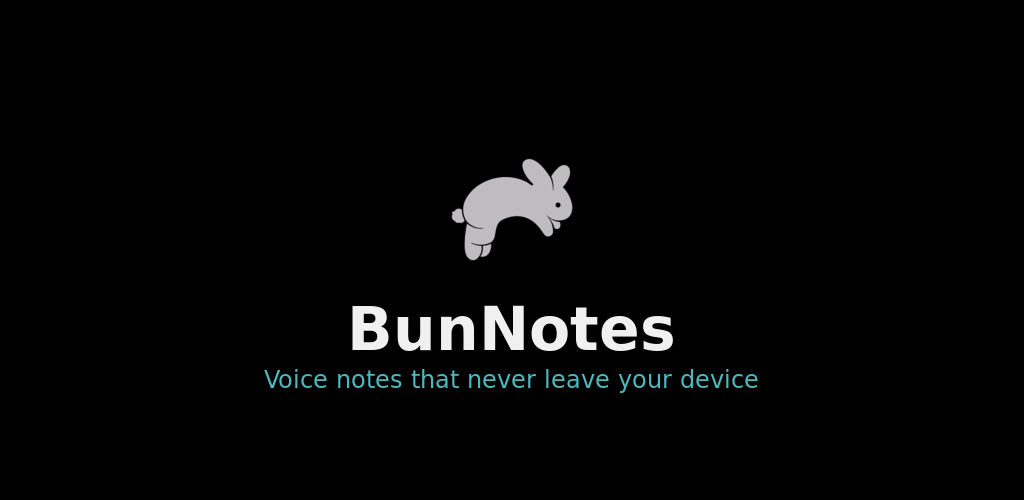
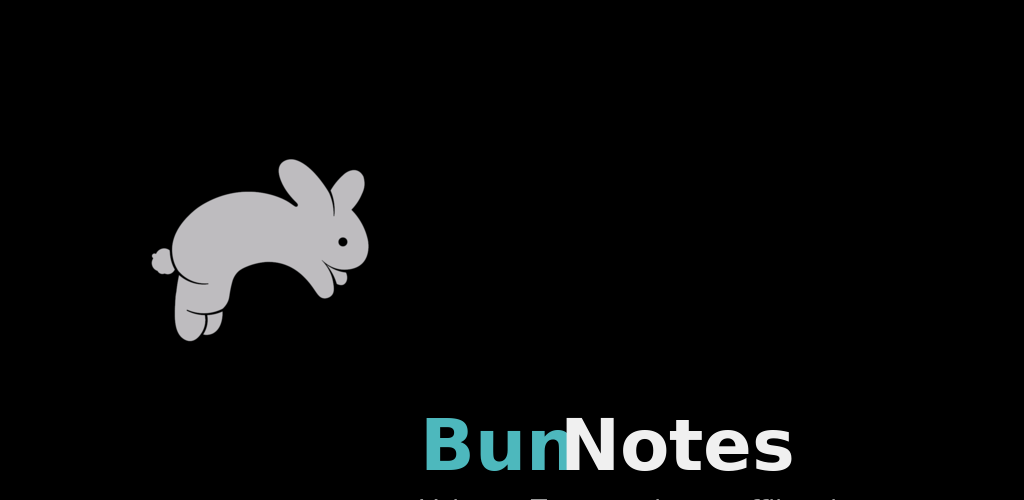
Bump to v1.1.3: fix crash on arm64 devices with missing FP16 cpuinfo
- Fix WhisperContext crash: arm64 devices without /proc/cpuinfo Features
  line now fall back to generic librnwhisper.so instead of skipping load
- Add splash.png to app.json splash config
- Fix expo-modules-core gradle plugin to handle missing components.release
- Use explicit kotlinVersion in buildscript classpath
- Bump versionCode 9→10, versionName 1.1.2→1.1.3
- Regenerate feature graphic with updated branding

diff --git a/App.js b/App.js
@@ -771,7 +771,7 @@ export default function App() {
 
             <View style={s.divider} />
             <Text style={s.sLabel}>About</Text>
-            <Text style={{ fontFamily: MONO, fontSize: 14, color: C.bright, marginBottom: 4 }}>BunNotes v2.0.0</Text>
+            <Text style={{ fontFamily: MONO, fontSize: 14, color: C.bright, marginBottom: 4 }}>BunNotes v1.1.3</Text>
             <Text style={{ fontFamily: MONO, fontSize: 12, color: C.muted, lineHeight: 20, marginBottom: 8 }}>On-device voice transcription{'\n'}powered by whisper.cpp</Text>
             <Text style={{ fontFamily: MONO, fontSize: 11, color: C.muted, lineHeight: 18, marginBottom: 8 }}>BunNotes can also be used as a live captioning tool for deaf and hard-of-hearing users.</Text>
             <TouchableOpacity onPress={() => Linking.openURL('https://endreendi.com')} style={{ marginBottom: 6 }}>
